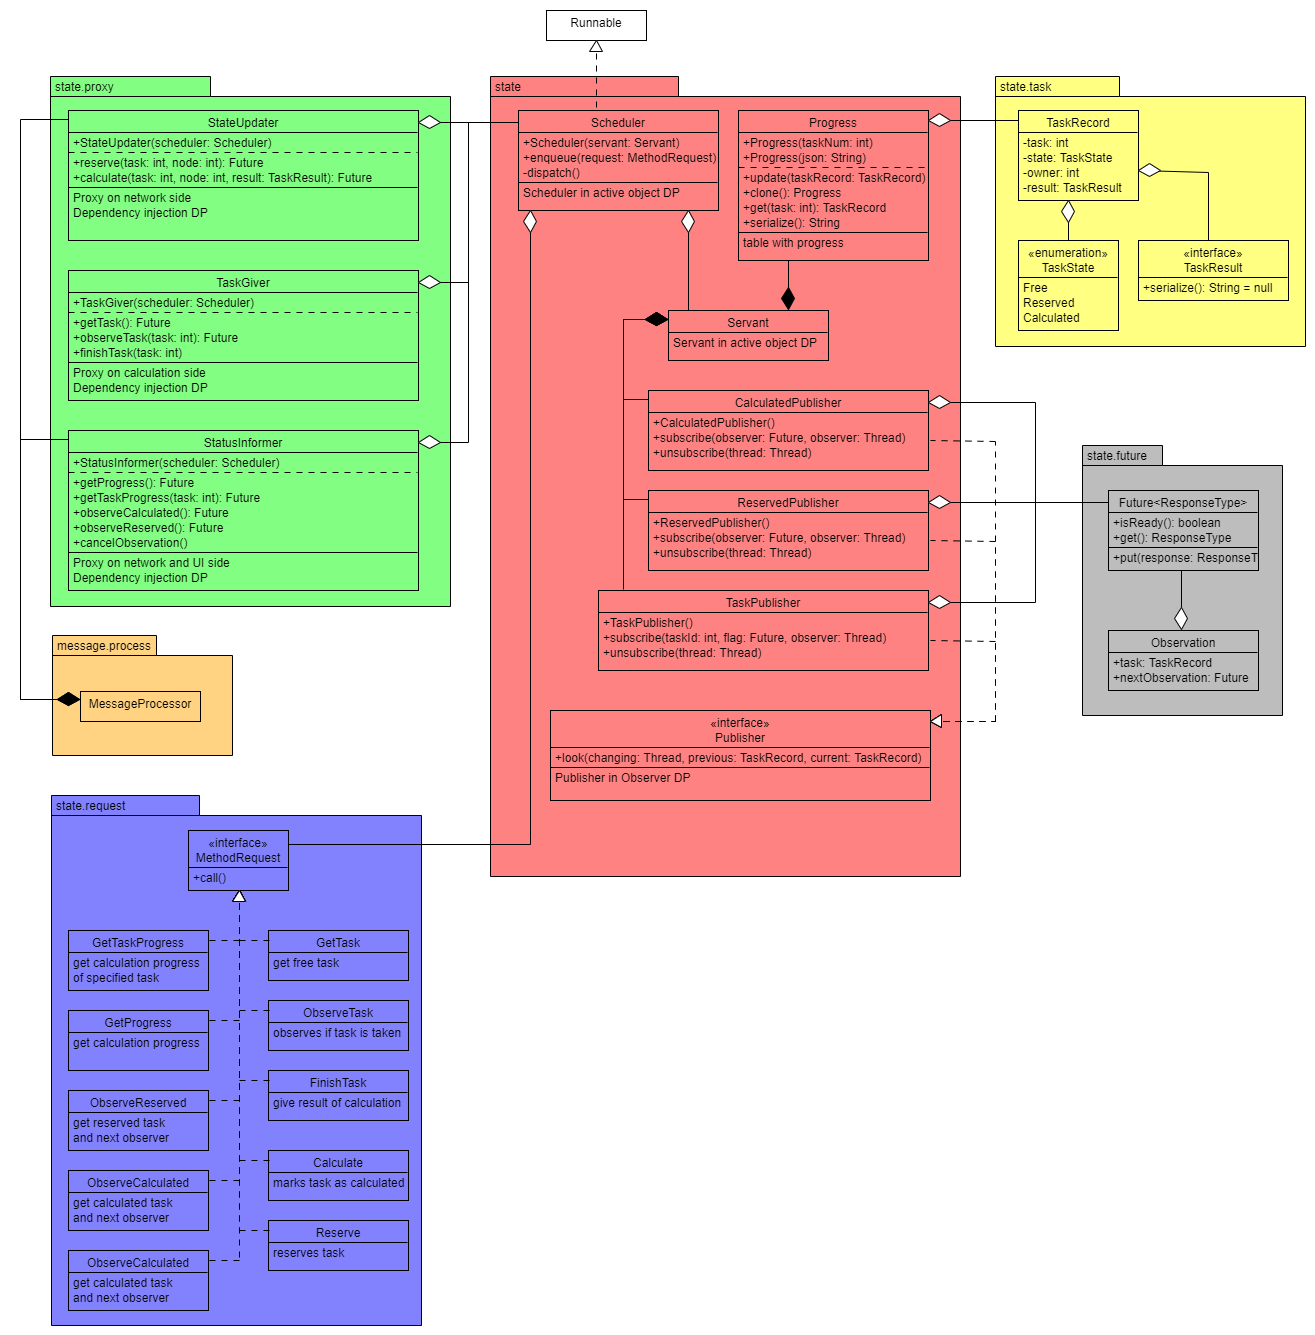
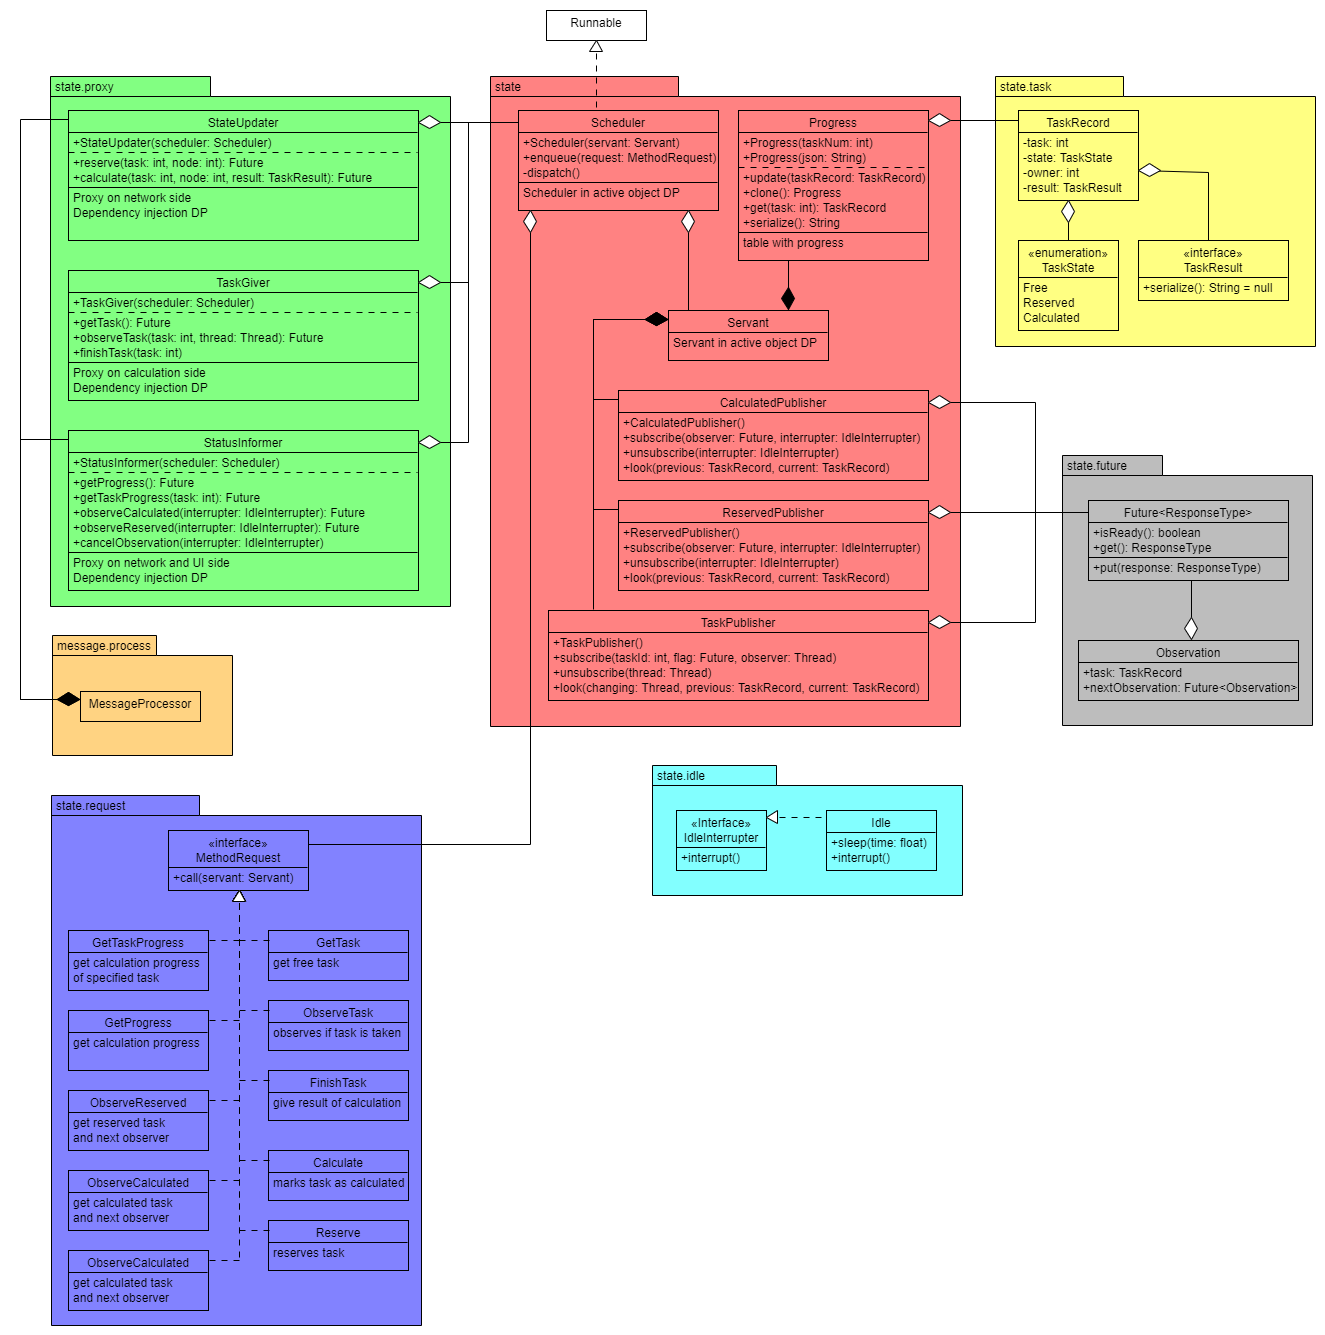
Idle class

diff --git a/docs/state_module.md b/docs/state_module.md
@@ -33,21 +33,17 @@ Dla każdej klasy implementującej interfejs ```MethodRequest``` zawiera odpowia
 
 Reprezentuje postęp obliczeń, zajętość zadań oraz ich właścicieli. 
 
-### Publisher
-
-```Servant``` zawiera listę obiektów ```Publisher```, po których iteruje wywołując metodę ```look(previous: TaskRecord, current: TaskRecord)``` przy każdej zmianie stanu obliczeń. 
-
 ### CalculatedPublisher
 
-Jest asynchroniczną implementacją wzorca projektowego "Observer". Monitoruje zmiany stanów zadań. Jeśli któreś zostanie policzone, informuje obserwujące wątki poprzez przerwanie oraz zwrócenie wartości do obiektu ```Future```. Gdy informuje o zmianie, podmienia obiekt ```Future``` na ten zwrócony w komunikacie. 
+Jest asynchroniczną implementacją wzorca projektowego "Observer". Monitoruje zmiany stanów zadań. Jeśli któreś zostanie policzone, informuje obserwujące wątki poprzez metodę ```IdleInterrupter.interrupt()``` oraz zwrócenie wartości do obiektu ```Future```. Gdy informuje o zmianie, podmienia obiekt ```Future``` na ten zwrócony w komunikacie. 
 
 ### ReservedPublisher
 
-Jest asynchroniczną implementacją wzorca projektowego "Observer". Monitoruje zmiany stanów zadań. Jeśli któreś zostanie zarezerwowane, informuje obserwujące wątki poprzez przerwanie oraz zwrócenie wartości do obiektu ```Future```. Gdy informuje o zmianie, podmienia obiekt ```Future``` na ten zwrócony w komunikacie. 
+Jest asynchroniczną implementacją wzorca projektowego "Observer". Monitoruje zmiany stanów zadań. Jeśli któreś zostanie zarezerwowane, informuje obserwujące wątki poprzez metodę ```IdleInterrupter.interrupt()``` oraz zwrócenie wartości do obiektu ```Future```. Gdy informuje o zmianie, podmienia obiekt ```Future``` na ten zwrócony w komunikacie. 
 
 ### TaskPublisher
 
-Obserwuje stan konkretnych zadań. Gdy stan zadania się zmieni, informuje subskrybentów oraz usuwa ich subskrybcję. Wątki są przerywane oraz flaga ```isReady()``` powiązanego obiektu ```Future``` zostaje podniesiona. 
+Obserwuje stan konkretnych zadań. Gdy stan zadania się zmieni, informuje subskrybentów oraz usuwa ich subskrybcję. Wywoływana jest metoda ```IdleInterrupter.interrupt()``` oraz flaga ```isReady()``` powiązanego obiektu ```Future``` zostaje podniesiona. 
 
 ## Pakiet state.proxy
 
@@ -99,9 +95,13 @@ Dla skrócenia zapisu na *Rysunku 1* obiekt ```Future``` jest w pozostałych kla
 
 Klasa używana przy ciągłej subskrypcji na zmiany stanu obliczeń. Gdy zdarzenie zajdzie, ```Future``` zwróci obiekt ```Observation``` zawierający informacje o zdarzeniu oraz kolejny ```Future``` dalej obserwujący zdarzenia. 
 
-## Pakit state.request
+## Pakiet state.request
 
 Interfejs ```MethodRequest``` reprezentuje żądanie wywołania metody na obliekcie ```Servant```. Implementujące go klasy posiadają konstruktor przyjmujący obiekt ```Servant``` oraz dodatkowe parametry. Metoda ```call()``` odpowiada wykonaniu żądania.
+
+## Pakiet state.idle
+
+Klasa ```Idle``` umożliwia kontrolowane uśpienie wątku na określony czas. Śpiący wątek może być wybudzony wcześniej dzięki metodzie ```IdleInterrupter.interrupt()```
 
 ---
 

diff --git a/docs/design_patterns.md b/docs/design_patterns.md
@@ -28,9 +28,25 @@ Metoda ```Message.serialize()``` jest metodą szablonową. Definiuje kolejność
 
 Dzięki zastosowaniu wzorca "template method" zyskujemy na czytelności kodu oraz skalowalności rozwiązania. Nawet, gdy dodamy więcej implementacji ```Body```, treść metody ```Message.serialize()``` się nie zmieni. 
 
+## Dependency injection
+
+- ```network.routing.RoutingTable```, ```network.messagequeue.MessageQueueExit``` i ```network.connection.ConnectionManager``` są wstrzykiwane w konstruktorze do ```network.routing.Router```. 
+
+- ```network.routing.Router```, ```state.proxy.StateUpdater```, ```state.proxy.StateInformer``` oraz klasy paczki ```message.process``` odpowiednio oznaczone [tutaj](./message_module.md) są wstrzykiwane do ```message.process.MessageProcessor```. 
+
+- ```state.Scheduler``` jest wstrzykiwany do wszystkich klas paczki ```state.proxy```.
+
+- ```state.Servant``` jest wstrzykiwany do ```state.Scheduler```.
+
+- ```state.Progress``` jest wstrzykiwany do ```state.Servant``` za pomocą "settera".
+
+- ```state.CalculatedPublisher```, ```state.ReservedPublisher``` i ```state.TaskPublisher``` są wstrzykiwane do ```state.Servant```.
+
+Główną zaletą zastosowania wzorca ```Dependency injection``` jest umożliwienie bardziej precyzyjnych testów jednostkowych. Dodatkowo, w przypadku klasy ```state.Progress``` możliwe jest opóźnienie inicjalizacji tablicy postępu oraz stworzenie jej w różny sposób w zależności od tego, czy udało się połączyć z siecią. 
+
 ## Active object
 
-Cały moduł [state](./state_module.md) jest implementacją wzorca projektowego ```Active object```. Jest on opisany dokładnie w donumentacji modułu. 
+Większość modułu [state](./state_module.md) jest implementacją wzorca projektowego ```Active object```. Jest on opisany dokładnie w donumentacji modułu. 
 
 Dzięki użyciu tego wzorca projektowego możliwy jest asynchroniczny dostęp do tablicy postępu oraz innych zmiennych stanu. Pozwala to na nieprzerwaną pracę komunikujących się wątków i lepszą skalowalność. Możliwy jest nawet podział programu między wiele komputerów (lecz w tym przypadku jest on niepraktyczny). Dodatkowo, można bez dodatkowego nakładu kodu dodać więcej wątków obliczeń, czy UI. Pozwala to na dopasowanie użycia procesora wielordzeniowego do potrzeb użytkownika (może chcieć swobodnie używać komputera podczas obliczeń, lub nie). 
 

diff --git a/docs/network_module.md b/docs/network_module.md
@@ -34,7 +34,7 @@ Gdy połączenie przychodzące zostanie urwane, jest usuwane z listy ```incoming
 
 Połączenia wychodzące dodawane są metodą ```addStaticConnection(StaticConnection connection)``` dodawane są do listy ```List<StaticConnection> outgoingConnections```. Jedynym sposobem na usunięcie połączenia statycznego jest wywołanie metody ```remoceStaticConnection(StaticConnection connection)```
 
-W sytuacji otrzymania wiadomości, jest ona parsowana na obiekt ```Message```, a następnie zostaje przekazana do kolejki ```MessageQueueEntry``` razem z obiektem ```Connection```, z którego wiadomość przyszła.
+W sytuacji otrzymania wiadomości, jest ona parsowana na obiekt ```Message```, a następnie zostaje przekazana do kolejki ```MessageQueueEntry``` razem z obiektem ```Connection```, z którego wiadomość przyszła. Dodatkowo, wątek "Message" jest budzony dzięki ```IdleInterrupter.interrupt()```.
 
 ## Pakiet network.routing
 

diff --git a/docs/message_module.md b/docs/message_module.md
@@ -46,7 +46,7 @@ Odpowiada za przetwarzanie wiadomości i zmian stanu. Implementuje protokoły si
 
 ### MessageProcessor
 
-Przetwarza wiadomości w ramach osobnego wątku. Odpowiada za cykliczne wołanie metod ```NodeRegister```, ```HeartBeatEmiter``` i ```StateObserver```. Wątek zasypia maksymalnie na czas ```HeartBeatEmiter.nextBeatTime()``` gdy nie ma nic do roboty. Jest budzony metodą ```Thread.interrupt()``` przez wątek, który dodał jakąś pracę.
+Przetwarza wiadomości w ramach osobnego wątku. Odpowiada za cykliczne wołanie metod ```NodeRegister```, ```HeartBeatEmiter``` i ```StateObserver```. Wątek zasypia maksymalnie na czas ```HeartBeatEmiter.nextBeatTime()``` za pomocą metody ```Idle.sleep(float)``` gdy nie ma nic do roboty . Jest budzony metodą ```IdleInterrupter.interrupt()``` przez wątek, który dodał jakąś pracę.
 
 ### StateObserver
 
